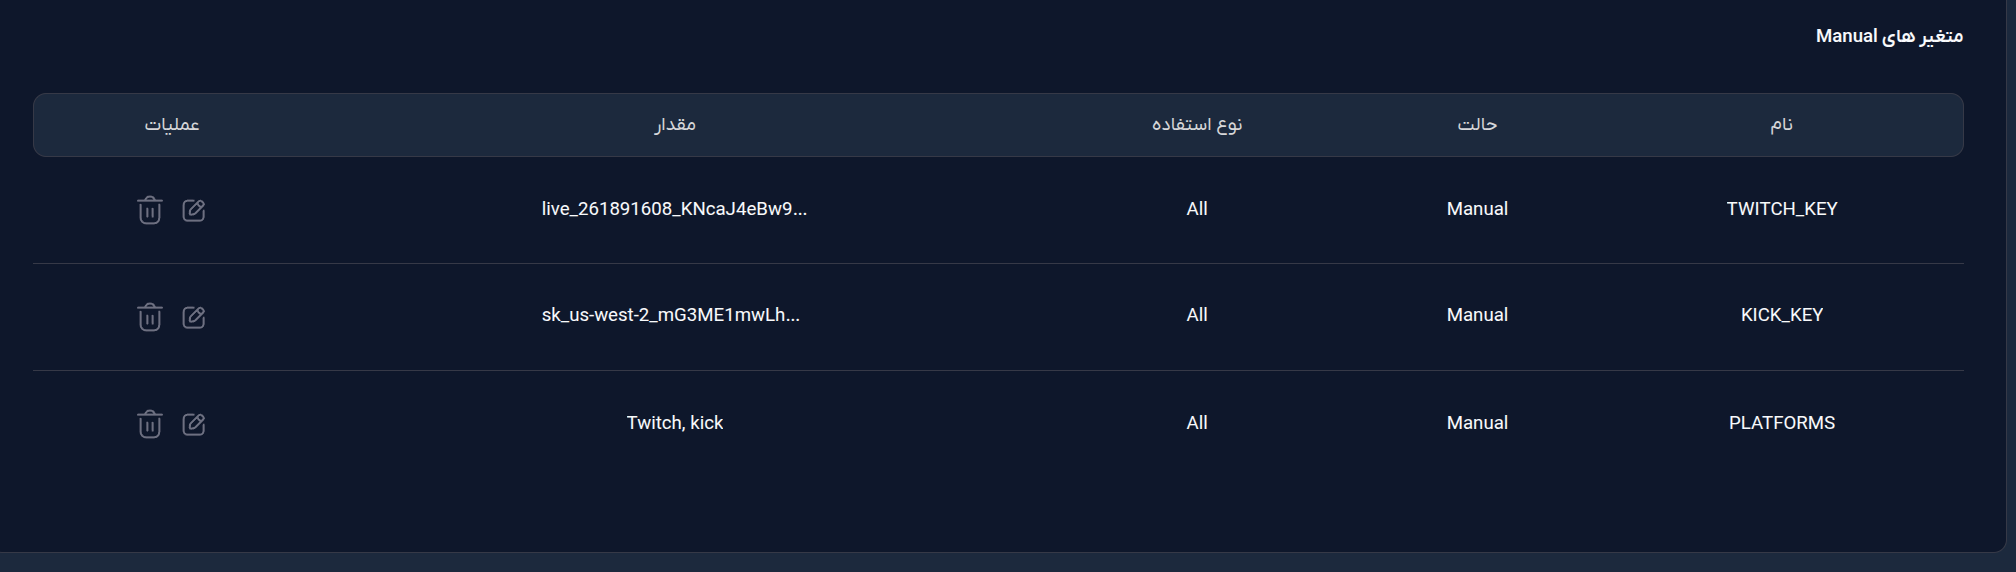
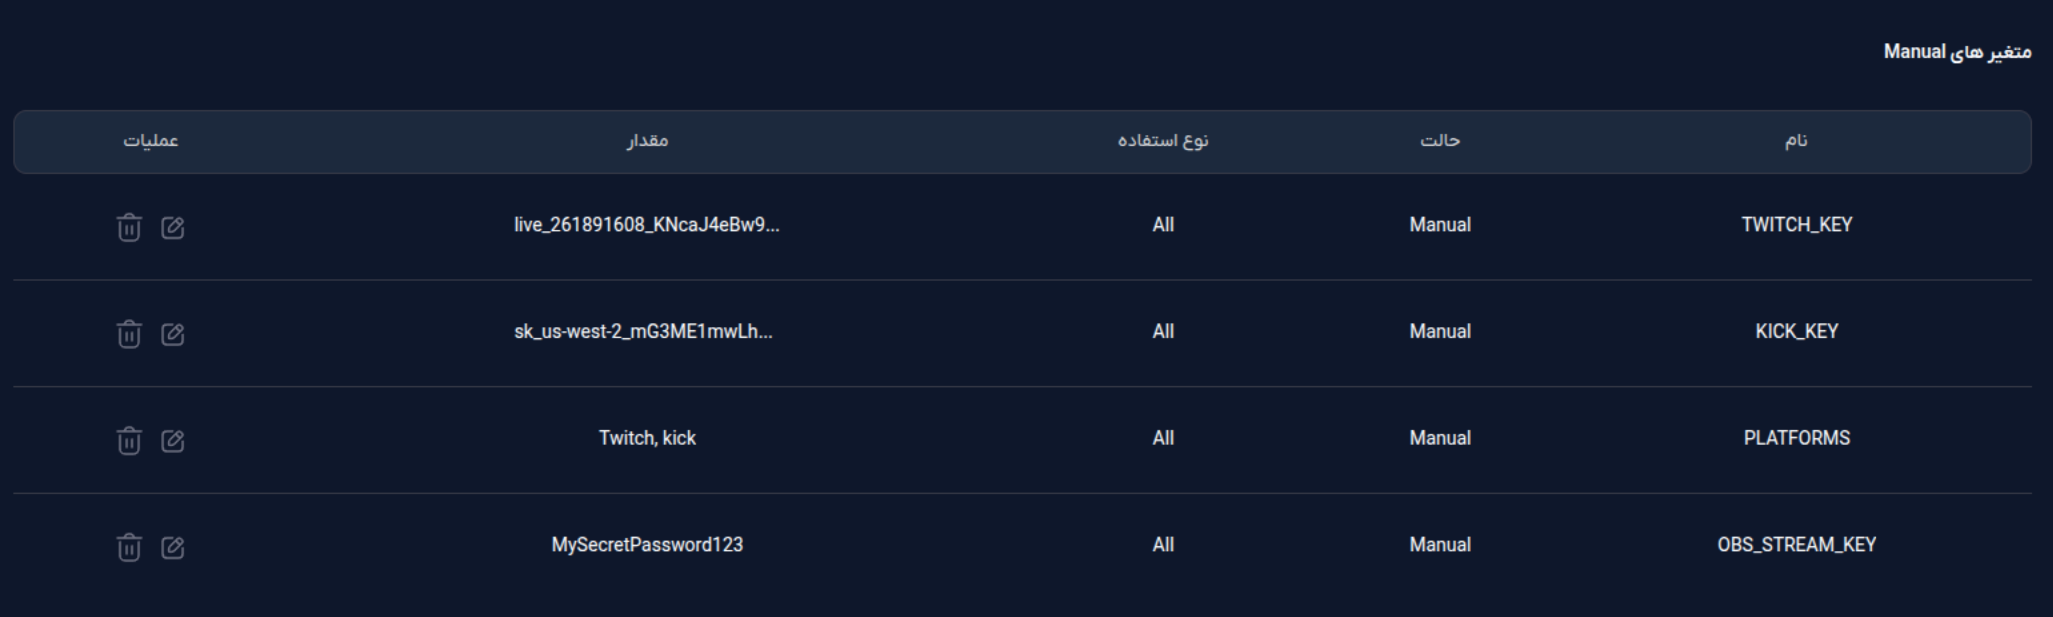
- debugging optional stream key for more security - updating manual for stream key

diff --git a/README.md b/README.md
@@ -57,9 +57,17 @@ To keep your stream keys secure, we use Environment Variables. The bridge will r
 
 1. Look for the **Environment Variables (متغیرهای محیطی)** section in the right-side pane of your deployed app.
 2. Add the following variables:
-   * **`TWITCH_KEY`**: Your Twitch Stream Key (e.g., `live_...`)
-   * **`KICK_KEY`**: Your Kick Stream Key (e.g., `key_...`)
-   * **`PLATFORMS`**: A comma-separated list of the platforms you wish to stream to (e.g., `kick, twitch`, `Twitch`, or `KICK`). If left completely blank, the script defaults to streaming to both.
+   * **`TWITCH_KEY`**: Your secret Twitch stream key (found in your Twitch Creator Dashboard).
+   * **`KICK_KEY`**: Your secret Kick stream key (found in your Kick Creator Dashboard).
+   * **`PLATFORMS`**: Controls which platforms you are broadcasting to.
+     * Set this to **`twitch, kick`** to stream to both.
+     * Set it to **`twitch`** or **`kick`** to stream to just one.
+     * (If left empty, it defaults to both).
+   * **`OBS_STREAM_KEY`** *(Optional but Recommended)*: This acts as a password to secure your custom server so random people cannot stream to your channels.
+     * Type a secure password here (e.g., **`MySecretPassword123`**). Avoid spaces or special characters.
+     * If you leave this blank, your server will be "open" and accept a stream from anyone who knows your port number.
+
+Make sure to save your environment variables and let the container restart to apply the changes.
 
 *Note: You do not need to manually restart any containers. Whenever you update or change an environment variable (like switching platforms), Runflare automatically restarts the container. Just wait a few moments for the new deployment to finish before starting your stream in OBS.*
 
@@ -89,11 +97,13 @@ You must bypass the web proxy by using a **NodePort** connection.
 
 Now that your server is running and your direct NodePort is open, configure OBS to send your single stream to the bridge.
 
-1. Open OBS Studio and go to **File > Settings > Stream**.
+1. Open **OBS Studio** and go to **Settings > Stream**.
 2. **Service**: Select **Custom**.
-3. **Server**: Enter `rtmp://[YOUR_NODEPORT_ADDRESS_AND_PORT]/live`
-   * *Example:* `rtmp://remote-pishgaman.runflare.com:30769/live`
-4. **Stream Key**: Enter `test` (or leave it blank). Authentication is handled internally by the server.
+3. **Server**: Enter your Runflare NodePort address followed by **`/live`**.
+   * *Example:* `rtmp://remote-pishgaman.runflare.com:30769/live` (Make sure to replace 30769 with your actual 5-digit port).
+4. **Stream Key**:
+   * If you set an **`OBS_STREAM_KEY`** in your Runflare environment variables, enter that exact password here.
+   * If you left it blank in Runflare, you can type anything here (like `test`) or leave it blank—it won't matter.
 5. Click **Apply**, then hit **Start Streaming**.
 
 Your stream will now hit your custom Nginx server and automatically branch out to your selected platforms!
